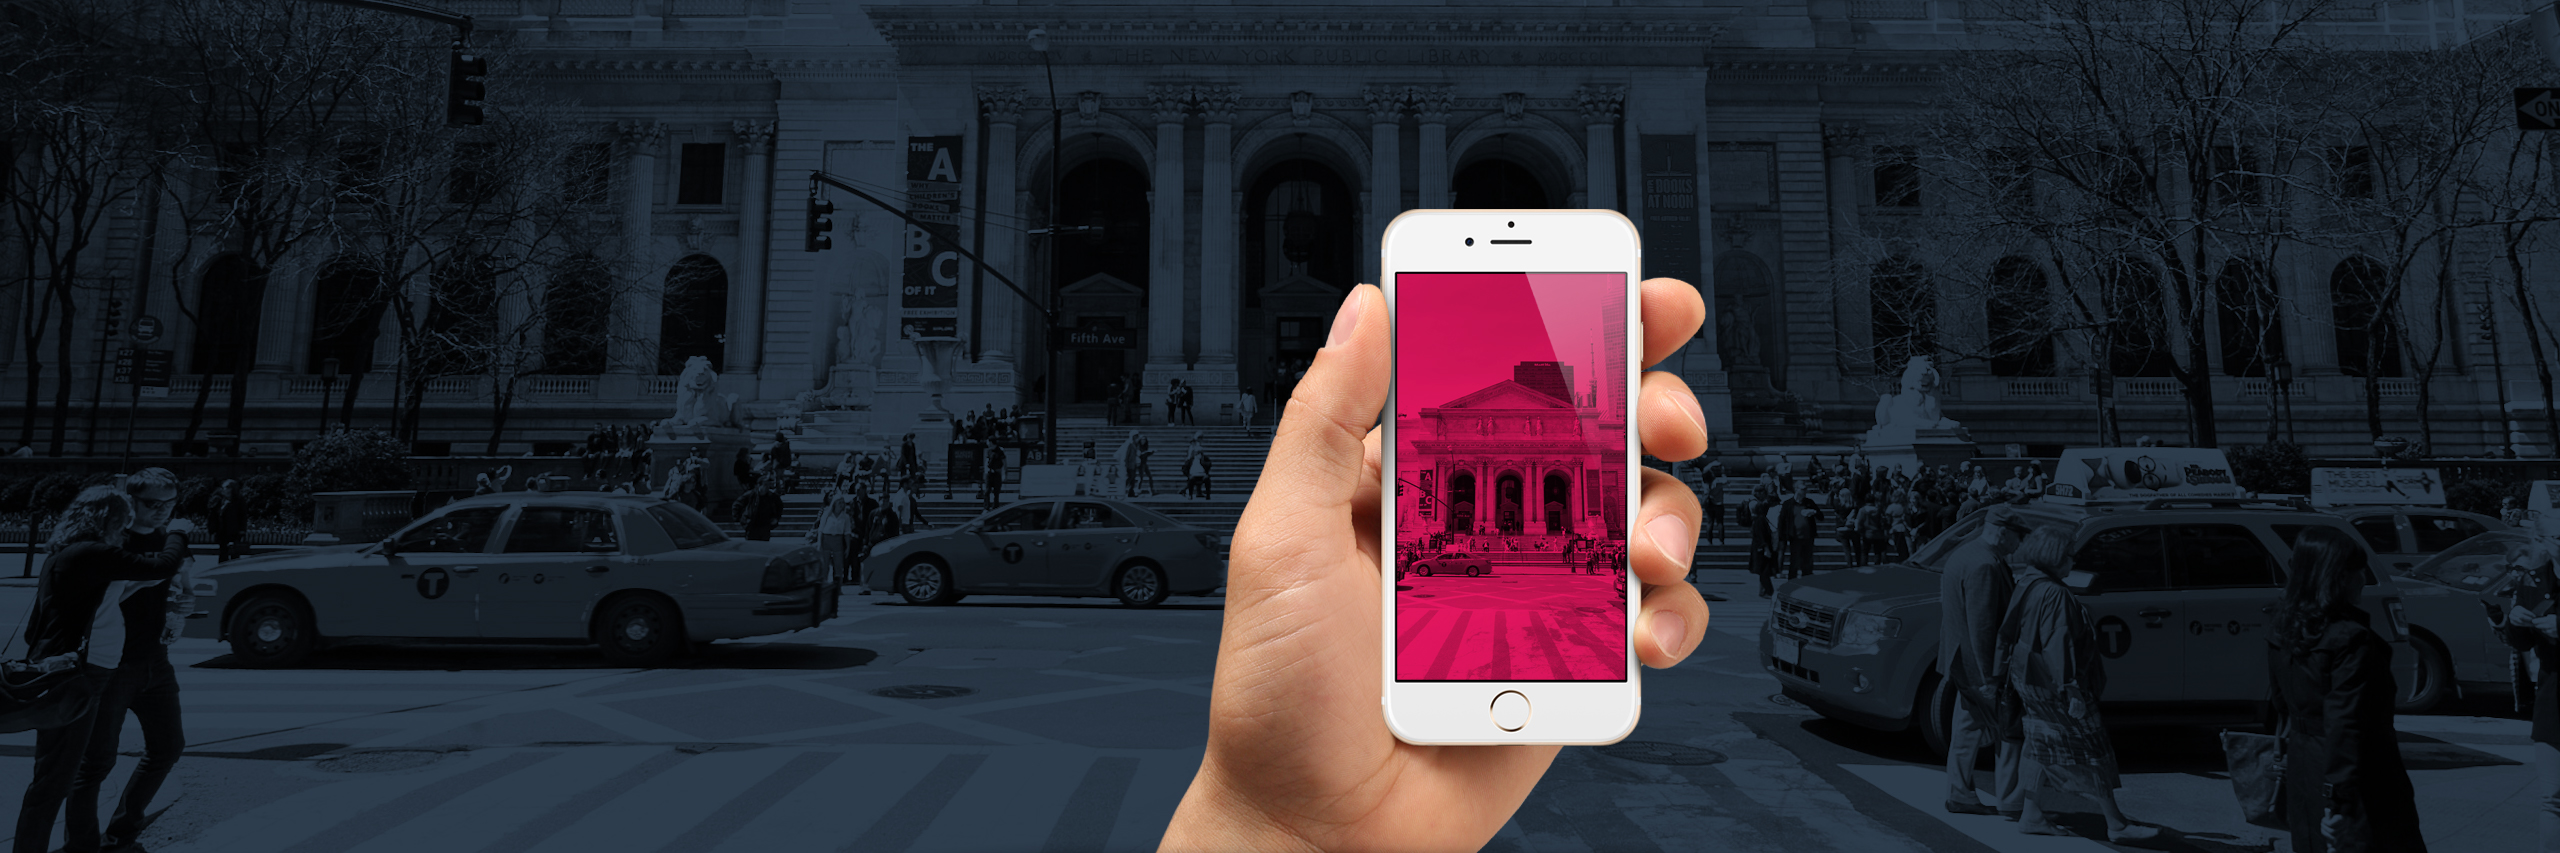
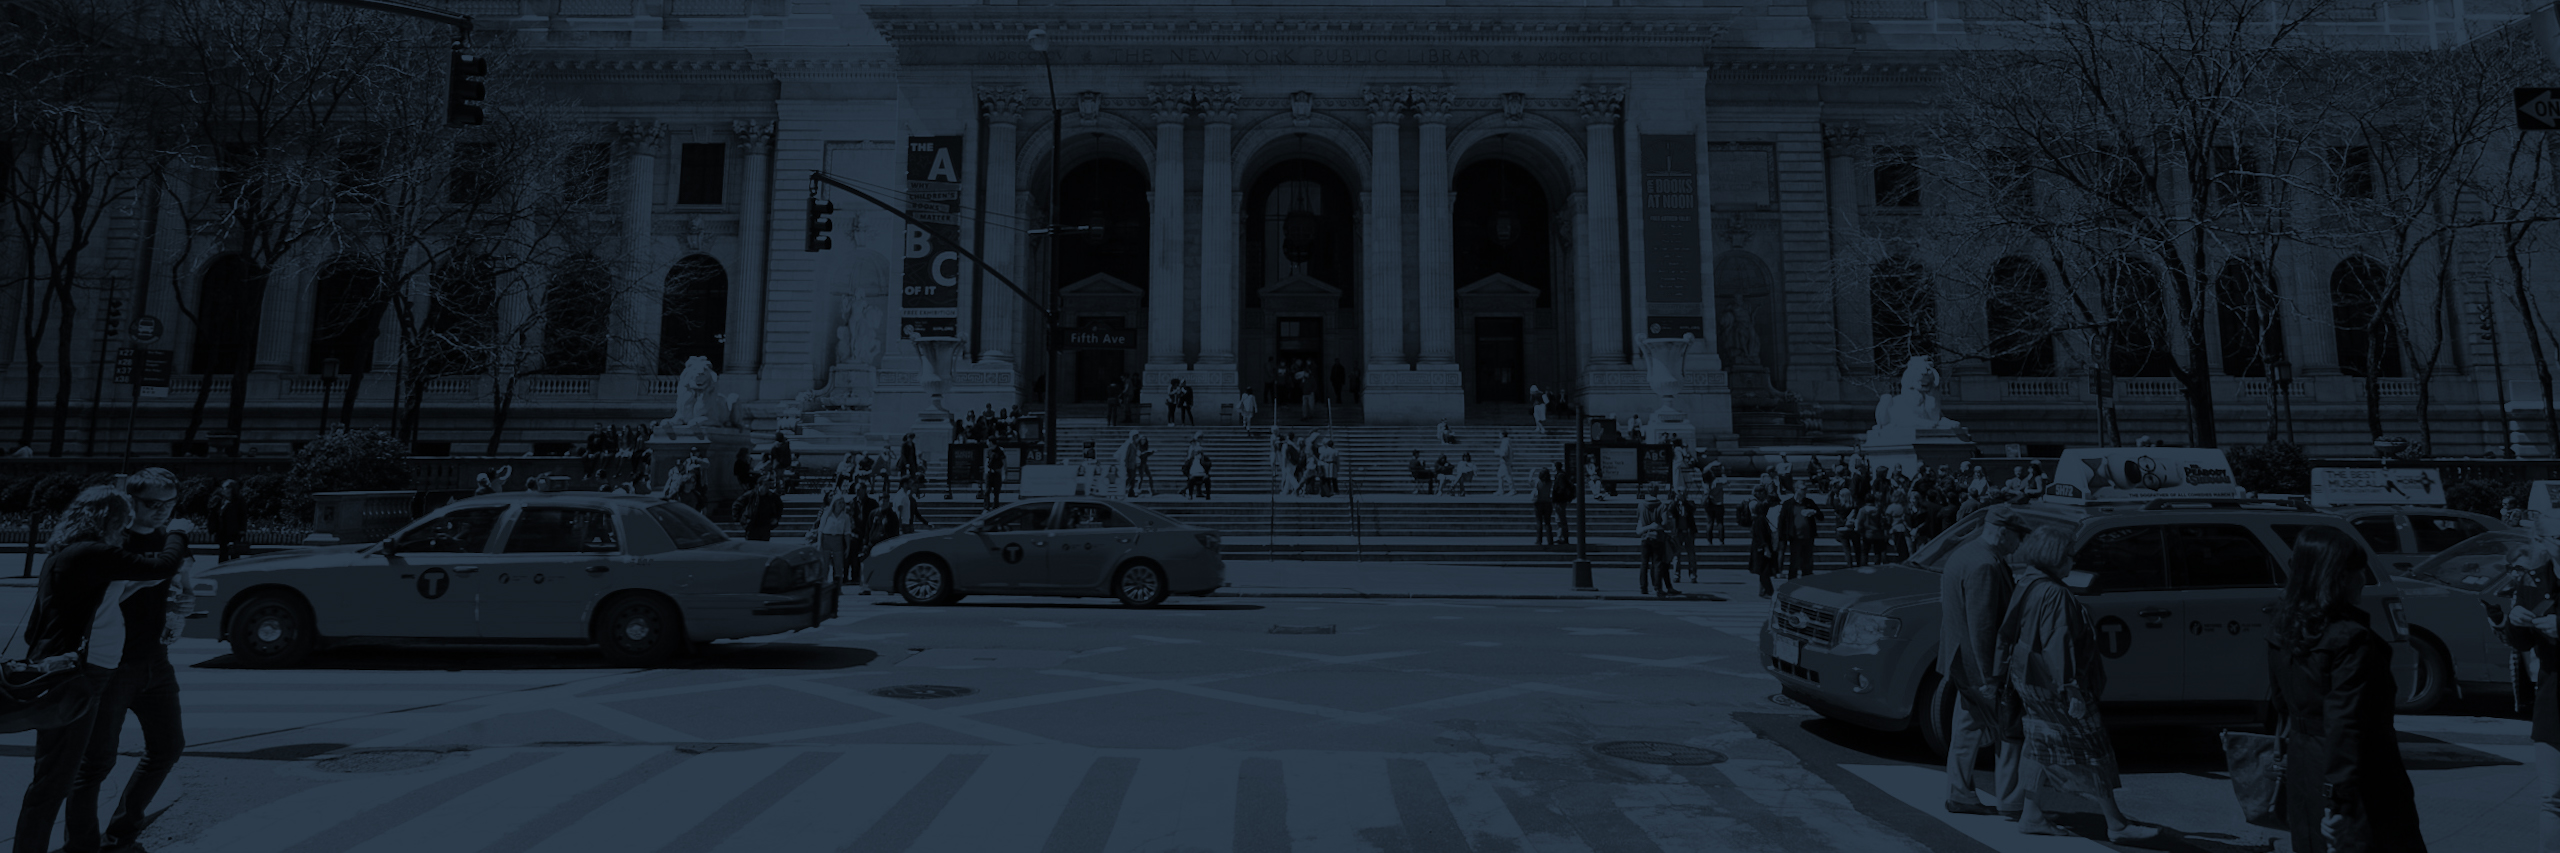
start to styling photo inner page

Changed region(s): [[0.4375, 0.2438, 0.6875, 1.0]]

diff --git a/src/photo.html b/src/photo.html
@@ -1,0 +1,84 @@
+<!DOCTYPE html>
+<html lang="ru">
+
+<head>
+  <meta charset="UTF-8">
+  <meta name="viewport" content="width=device-width, initial-scale=1.0">
+  <title>Фотографии</title>
+  <link href="https://fonts.googleapis.com/css?family=Open+Sans:300,400,700&display=swap&subset=cyrillic"
+    rel="stylesheet">
+  <link rel="stylesheet" href="css/style.css">
+</head>
+
+<body>
+  <header class="page-header page-header--photo">
+    <div class="page-header__wrapper">
+      <div class="page-header__nav-wrap">
+        <div class="page-header__logo-wrap">
+          <a href="index.html" class="page-header__logo"><svg class="page-header__logo-mobile">
+              <use xlink:href="img/sprites/sprite.svg#logotype-header-mobile"></use>
+            </svg>
+            <svg class="page-header__logo-tablet">
+              <use xlink:href="img/sprites/sprite.svg#logotype-header-tablet"></use>
+            </svg>
+            <svg class="page-header__logo-desktop">
+              <use xlink:href="img/sprites/sprite.svg#logotype-header-desktop"></use>
+            </svg>
+          </a>
+          <button class="main_nav__button-open" type="button"></button>
+          <button class="main_nav__button-close" type="button"><svg class="main_nav__button-close-icon">
+              <use xlink:href="img/sprites/sprite.svg#cross-button"></use>
+            </svg>
+          </button>
+        </div>
+        <nav class="main-nav">
+          <ul class="main-nav__list site-list">
+            <li class="site-list__item"><a class="site-list__link" href="index.html">Главная</a></li>
+            <li class="site-list__item site-list__item--active"><a
+                class="site-list__link site-list__link--active">Фотографии</a></li>
+            <li class="site-list__item"><a href="#" class="site-list__link">Конкурс</a></li>
+            <li class="site-list__item"><a href="#" class="site-list__link">HTML Academy</a></li>
+          </ul>
+        </nav>
+      </div>
+      <p class="page-header__title">Фотографии пользователей</p>
+    </div>
+  </header>
+  <main class="page-main">
+    <h1 class="visually-hidden">Фотографии пользователей</h1>
+
+    </section>
+    <!-- <footer class="page-footer">
+      <a href="#" class="page-footer__logo">
+        <svg class="page-footer__logo-tablet">
+          <use xlink:href="img/sprites/sprite.svg#logotype-footer-tablet"></use>
+        </svg>
+        <svg class="page-footer__logo-desktop">
+          <use xlink:href="img/sprites/sprite.svg#logotype-footer-desktop"></use>
+        </svg>
+      </a>
+      <ul class="footer-social__list social">
+        <li class="social__item"><a href="#" class="social__link social__link--twitter "><span
+              class="visually-hidden">Мы в Twitter</span></a></li>
+        <li class="social__item"><a href="#" class="social__link social__link--facebook"><span
+              class="visually-hidden">Мы в Facebook</span></a></li>
+        <li class="social__item"><a href="#" class="social__link social__link--youtube"><span class="visually-hidden">Мы
+              на Youtube</span></a></li>
+      </ul>
+      <div class="page-footer__copyright copyright">
+        <b class="copyright__text">Разработано</b>
+        <a class="copyright__logo" href="https://htmlacademy.ru/intensive/adaptive">
+          <svg class="copyright__logo-icon">
+            <use xlink:href="img/sprites/sprite.svg#html-academy-logo"></use>
+          </svg>
+          <span class="visually-hidden">HTML
+            Academy</span>
+        </a>
+      </div>
+    </footer> -->
+  </main>
+  <script src="js/libs.min.js"></script>
+  <script src="js/main.js"></script>
+</body>
+
+</html>

diff --git a/src/css/style.css b/src/css/style.css
@@ -370,7 +370,7 @@ ul {
 .page-header {
   position: relative;
   display: block;
-  background-image: linear-gradient(to bottom, rgba(0, 0, 0, 0.3), rgba(0, 0, 0, 0.3) 66px, transparent 66px), url("../img/bg_mobile.jpg");
+  background-image: linear-gradient(to bottom, rgba(0, 0, 0, 0.3), rgba(0, 0, 0, 0.3) 66px, transparent 66px), url("../img/bg_tablet.jpg");
   background-repeat: no-repeat;
   background-size: auto 462px;
   background-position: top;
@@ -385,7 +385,7 @@ ul {
   width: 256px;
   height: 286px;
   margin-left: -128px;
-  background-image: url("../img/bg_mobile-hand.png");
+  background-image: url("../img/bg-hand.png");
   background-repeat: no-repeat;
   background-size: cover;
   background-position: -97px 21px;
@@ -515,7 +515,12 @@ ul {
     background-position: center;
   }
   .page-header::before {
-    background-image: none;
+    bottom: 0;
+    width: 541px;
+    height: 546px;
+    margin-left: -233px;
+    background-size: cover;
+    background-position: -97px 0;
   }
   .page-header__wrapper {
     width: 620px;
@@ -547,6 +552,14 @@ ul {
 @media (min-width: 1000px) {
   .page-header {
     background-image: linear-gradient(to bottom, rgba(0, 0, 0, 0.3), rgba(0, 0, 0, 0.3) 110px, transparent 110px), url("../img/bg_desktop.jpg");
+  }
+  .page-header::before {
+    bottom: 0;
+    width: 658px;
+    height: 644px;
+    margin-left: -277px;
+    background-size: cover;
+    background-position: -119px 19;
   }
   .page-header__wrapper {
     width: 940px;
@@ -716,6 +729,8 @@ ul {
 
 @media (min-width: 660px) {
   .page-header__promo {
+    position: relative;
+    z-index: 1;
     width: 300px;
     margin: 0;
     padding: 96px 0 105px 0;
@@ -1932,4 +1947,49 @@ ul {
 
 .test-img:hover {
   fill: black;
+}
+
+/* PHOTO.HTML */
+.page-header--photo {
+  height: 237px;
+}
+
+.page-header--photo::before {
+  background-image: none;
+}
+
+.page-header__title {
+  display: block;
+  max-width: 175px;
+  margin: 0 auto;
+  padding: 32px 0 83px 0;
+  font-size: 24px;
+  line-height: 1.2;
+  color: #ffffff;
+  font-weight: 300;
+  text-align: center;
+}
+
+@media (min-width: 660px) {
+  .page-header--photo {
+    height: 440px;
+    background-size: 200%;
+    background-position: center top;
+  }
+  .page-header__title {
+    max-width: 355px;
+    padding: 71px 0 139px 0;
+    font-size: 50px;
+  }
+}
+
+@media (min-width: 1000px) {
+  .page-header--photo {
+    height: 394px;
+  }
+  .page-header__title {
+    max-width: 355px;
+    padding: 64px 0 100px 0;
+    font-size: 50px;
+  }
 }

diff --git a/src/scss/_main.scss b/src/scss/_main.scss
@@ -6,7 +6,7 @@
 
   display: block;
 
-  background-image: linear-gradient(to bottom, rgba(#000000, 0.3), rgba(#000000, 0.3) 66px, transparent 66px), url("../img/bg_mobile.jpg");
+  background-image: linear-gradient(to bottom, rgba(#000000, 0.3), rgba(#000000, 0.3) 66px, transparent 66px), url("../img/bg_tablet.jpg");
   background-repeat: no-repeat;
   background-size: auto 462px;
   background-position: top;
@@ -23,7 +23,7 @@
     height: 286px;
     margin-left: -128px;
 
-    background-image: url("../img/bg_mobile-hand.png");
+    background-image: url("../img/bg-hand.png");
     background-repeat: no-repeat;
     background-size: cover;
     background-position: -97px 21px;
@@ -165,7 +165,15 @@
     background-position: center;
 
     &::before {
-      background-image: none;
+      bottom: 0;
+
+      width: 541px;
+      height: 546px;
+      margin-left: -233px;
+
+      background-size: cover;
+
+      background-position: -97px 0;
     }
   }
 
@@ -208,6 +216,18 @@
 @media (min-width: $desktop-screen) {
   .page-header {
     background-image: linear-gradient(to bottom, rgba(#000000, 0.3), rgba(#000000, 0.3) 110px, transparent 110px), url("../img/bg_desktop.jpg");
+
+    &::before {
+      bottom: 0;
+
+      width: 658px;
+      height: 644px;
+      margin-left: -277px;
+
+      background-size: cover;
+
+      background-position: -119px 19;
+    }
   }
 
   .page-header__wrapper {
@@ -416,6 +436,9 @@
 
 @media (min-width: $tablet-screen) {
   .page-header__promo {
+    position: relative;
+    z-index: 1;
+
     width: 300px;
     margin: 0;
     padding: 96px 0 105px 0;
@@ -1963,5 +1986,63 @@
   fill: red;
   &:hover {
     fill: black;
+  }
+}
+
+
+
+
+/* PHOTO.HTML */
+
+
+
+.page-header--photo {
+  height: 237px;
+
+  &::before {
+    background-image: none;
+  }
+}
+
+.page-header__title {
+  display: block;
+  max-width: 175px;
+  margin: 0 auto;
+  padding: 32px 0 83px 0;
+
+  font-size: 24px;
+  line-height: 1.2;
+  color: #ffffff;
+  font-weight: 300;
+  text-align: center;
+}
+
+@media (min-width: $tablet-screen) {
+  .page-header--photo {
+    height: 440px;
+
+    background-size: 200%;
+
+    background-position: center top;
+  }
+
+  .page-header__title {
+    max-width: 355px;
+    padding: 71px 0 139px 0;
+
+    font-size: 50px;
+  }
+}
+
+@media (min-width: $desktop-screen) {
+  .page-header--photo {
+    height: 394px;
+  }
+
+  .page-header__title {
+    max-width: 355px;
+    padding: 64px 0 100px 0;
+
+    font-size: 50px;
   }
 }

diff --git a/src/index.html b/src/index.html
@@ -35,7 +35,7 @@
           <ul class="main-nav__list site-list">
             <li class="site-list__item site-list__item--active"><a
                 class="site-list__link site-list__link--active">Главная</a></li>
-            <li class="site-list__item"><a href="#" class="site-list__link">Фотографии</a></li>
+            <li class="site-list__item"><a href="photo.html" class="site-list__link">Фотографии</a></li>
             <li class="site-list__item"><a href="#" class="site-list__link">Конкурс</a></li>
             <li class="site-list__item"><a href="#" class="site-list__link">HTML Academy</a></li>
           </ul>
@@ -58,7 +58,6 @@
           <li class="apps-list__item">
             <a class="apps-list__link apps-list__link--microsoft"
               href="https://www.microsoft.com/en-us/store/apps/windows">
-
               <span class="visually-hidden">Windows</span>
             </a>
           </li>
